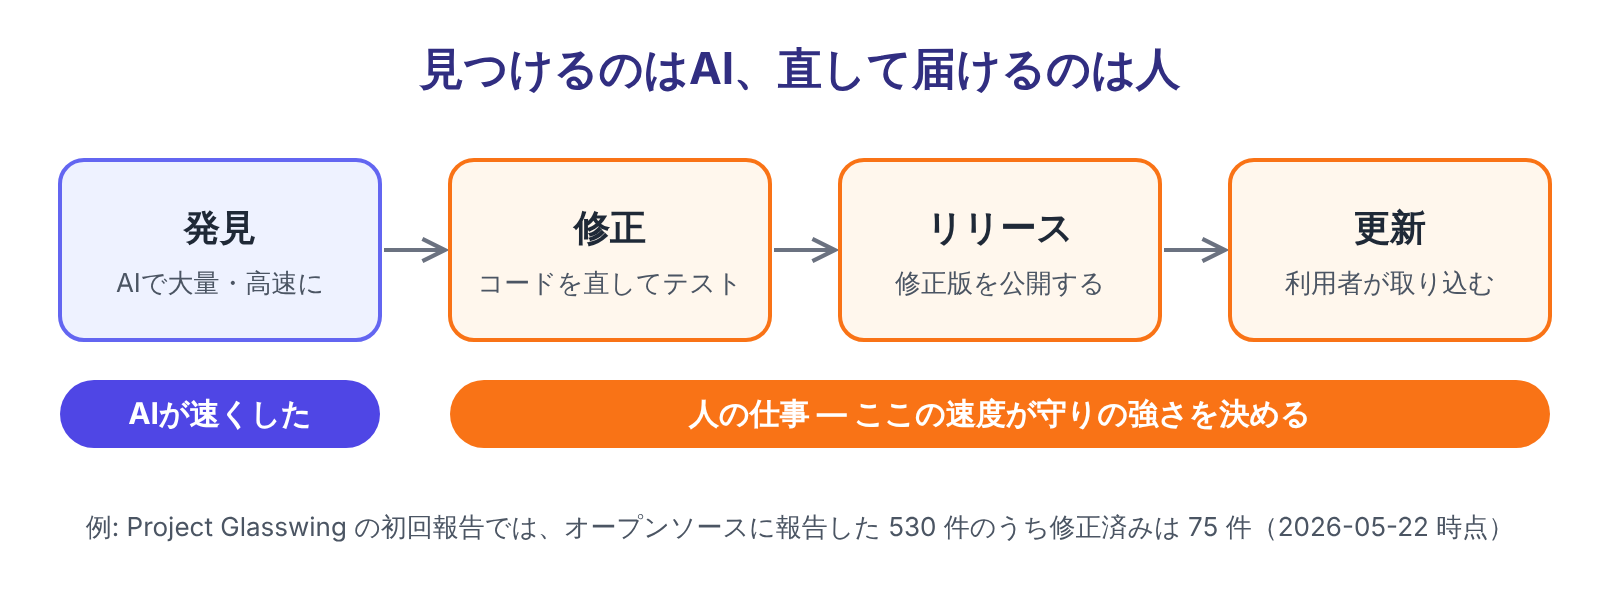
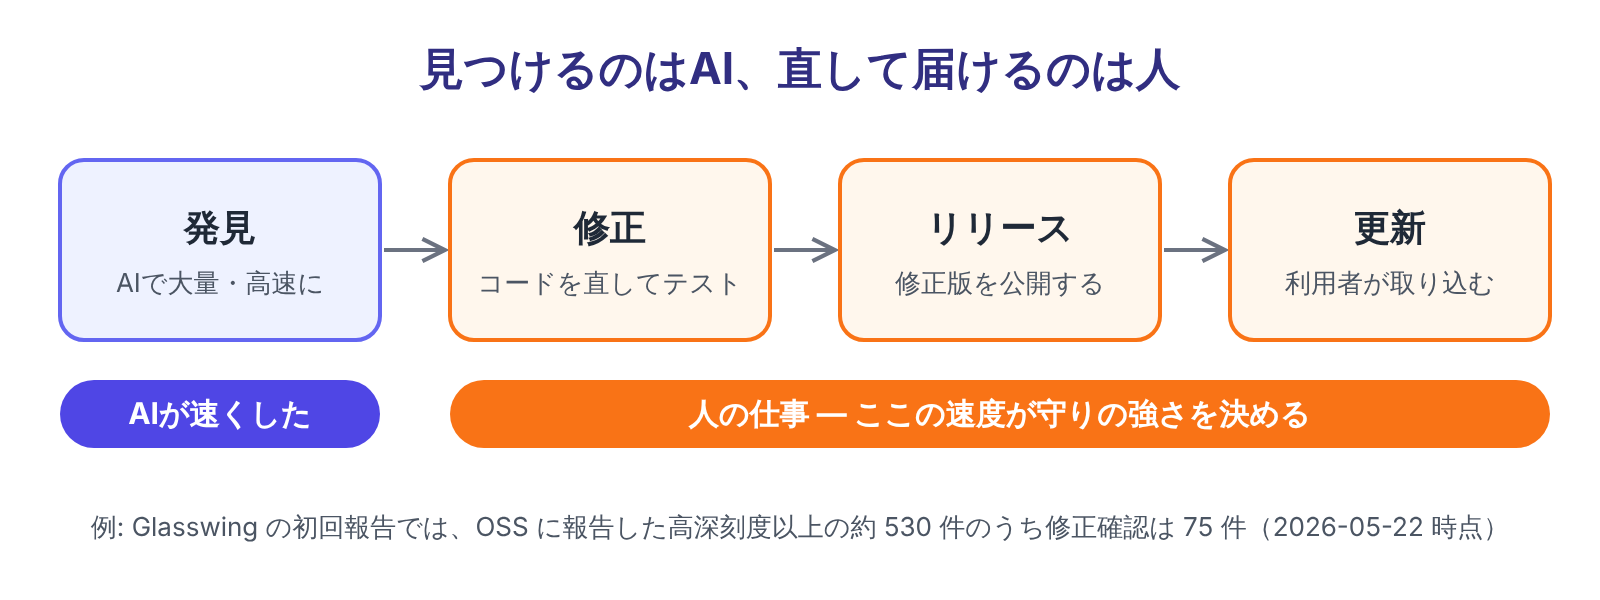
📝 サイバー攻撃入門編の Fable 2 回目レビュー指摘を反映
Claude-Session: https://claude.ai/code/session_01Rbctg8Y31boxiG6dBTYVPJ

Changed region(s): [[0.0312, 0.84, 0.9375, 0.9]]

diff --git a/ai_development/18_ai-cyberattack-landscape.md b/ai_development/18_ai-cyberattack-landscape.md
@@ -29,7 +29,7 @@
 
 ### 冷静な見方も押さえておく
 
-ここで「AIが勝手にどんな組織でも攻撃できる時代になった」と考えるのは行き過ぎです。2026年2月に公表された「International AI Safety Report 2026」は、AIがすでに**脆弱性の発見や悪性コードの作成で攻撃者を助けている**とする一方、公表時点では**攻撃者による、最初から最後まで完全に自律した攻撃は報告されていない**とも整理しています。その後の2026年7月には、後述のコラムのとおり評価中のAIエージェントが自律的に外部企業へ侵入した事件も起きましたが、これは攻撃者が仕掛けたものではありません。攻撃者による事例では、人間が要所で判断していました。
+ここで「AIが勝手にどんな組織でも攻撃できる時代になった」と考えるのは行き過ぎです。2026年2月に公表された「International AI Safety Report 2026」は、AIがすでに**脆弱性の発見や悪性コードの作成で攻撃者を助けている**とする一方、公表時点では**攻撃者による、最初から最後まで完全に自律した攻撃は報告されていない**とも整理しています。その後の2026年7月には、後述のコラムのとおり評価中のAIエージェントが自律的に外部企業へ侵入した事件も起きましたが、これは攻撃者が仕掛けたものではありません。攻撃者による事例でも、AnthropicのGTG-1002の報告では人間が要所で判断していました。一方、GTIGは2026年11月の報告で、脆弱性の発見から攻撃の実行までを人手を介さずに自動化した攻撃者のフレームワークを初めて確認したとしており、自動化される範囲は広がりつつあります。
 
 つまり現状は、「**AIが攻撃者の手数と速度を大きく増やしている**」段階と捉えるのが正確です。手数が増えるということは、これまで「わざわざ狙う価値がない」と見逃されていた小さなサイトやサービスにも、攻撃が届きやすくなるということです。
 
@@ -37,7 +37,7 @@
 
 ソフトウェアの脆弱性が修正されると、修正版（パッチ）が公開されます。パッチは「どこが直されたか」の手がかりでもあるため、攻撃者はパッチの前後を見比べて、まだ更新していない人を狙う攻撃方法を組み立てます。以前からある手口ですが、人手と時間がかかる作業でした。
 
-GTIGの報告は、攻撃者がこの**パッチの差分解析をAIで完全に自動化する動き**が出てきており、ソフトウェアの更新を継続的に監視していると指摘しています。同報告では、PaperCutの脆弱性について、公表から1日以内にセキュリティ研究者がLLMで攻撃コードを再現でき、公表の4日後には攻撃者による広範な攻撃が確認された事例にも触れています。
+GTIGの報告は、攻撃者がこの**パッチの差分解析をAIで完全に自動化する動き**が出てきており、ソフトウェアの更新を継続的に監視して、攻撃の実行まで自動で行う例も確認されたと指摘しています。同報告では、印刷管理ソフトPaperCutの脆弱性（当初はゼロデイとして悪用されたもの）について、公表から1日以内にセキュリティ研究者がLLMで攻撃コードを再現でき、公表の4日後には攻撃者による広範な攻撃が確認された事例にも触れています。
 
 Web開発者にとっての意味ははっきりしています。
 
@@ -94,9 +94,9 @@ AIは**脆弱性を見つけて直す側**でも成果を上げています。
 
 2026年5月22日、Anthropicは脆弱性発見の取り組み「Project Glasswing」の初回報告を公表しました。約50のパートナーとともにAIを使い、**高深刻度または重大な脆弱性を1万件以上**見つけたとしています。一方で、オープンソースのメンテナーに報告した高深刻度以上の約530件のうち、初回報告の公表時点で修正が確認できたのは75件でした（開示から修正までの猶予期間の序盤で、Anthropicは今後増える見込みとしています）。
 
-<img src="images/18_ai-cyberattack-landscape/find-fix-deliver.png" width="800px" alt="脆弱性が利用者の手元で直るまでの流れ。発見はAIで大量・高速になったが、修正・リリース・利用者の更新は人の仕事で、ここの速度が守りの強さを決める">
-
 この数字は、AI時代のセキュリティの実情をよく表しています。**見つけるのはAIでも、直して届けるのは人です。** 修正を書き、テストし、リリースし、利用者が更新するまでの流れが遅ければ、守りは強くなりません。
+
+<img src="images/18_ai-cyberattack-landscape/find-fix-deliver.png" width="800px" alt="脆弱性が利用者の手元で直るまでの流れ。発見はAIで大量・高速になったが、修正・リリース・利用者の更新は人の仕事で、ここの速度が守りの強さを決める">
 
 ## Web開発者がまずやるべき3つのこと
 
@@ -121,7 +121,7 @@ AIは**脆弱性を見つけて直す側**でも成果を上げています。
 要点をまとめます。
 
 - AIで変わったことは4つ。**攻撃の実行をAIが担う**、**パッチ公開から攻撃までが速くなった**、**騙しの質と量が上がった**、**開発者とAIツール自体が狙われる**
-- ただし攻撃者による事例では人間が要所で判断しており、現状は「AIが攻撃者の手数と速度を増やしている」段階です。評価中のAIが自律的に侵入した事件も起きており、今後の動向には注意が必要です
+- ただし侵入の全工程をAIだけで完結させた攻撃者の事例は限られ、現状は「AIが攻撃者の手数と速度を増やしている」段階です。一方で、脆弱性の発見から攻撃実行までを自動化する例や、評価中のAIが自律的に侵入した事件も出ており、今後の動向には注意が必要です
 - AIは脆弱性を大量に見つけられますが、**直して届けるのは人**。修正と更新の速度が守りの強さを決めます
 - まずやるべきことは**更新を速く回す・認証を強くする・秘密情報と権限を絞る**の3つです
 
